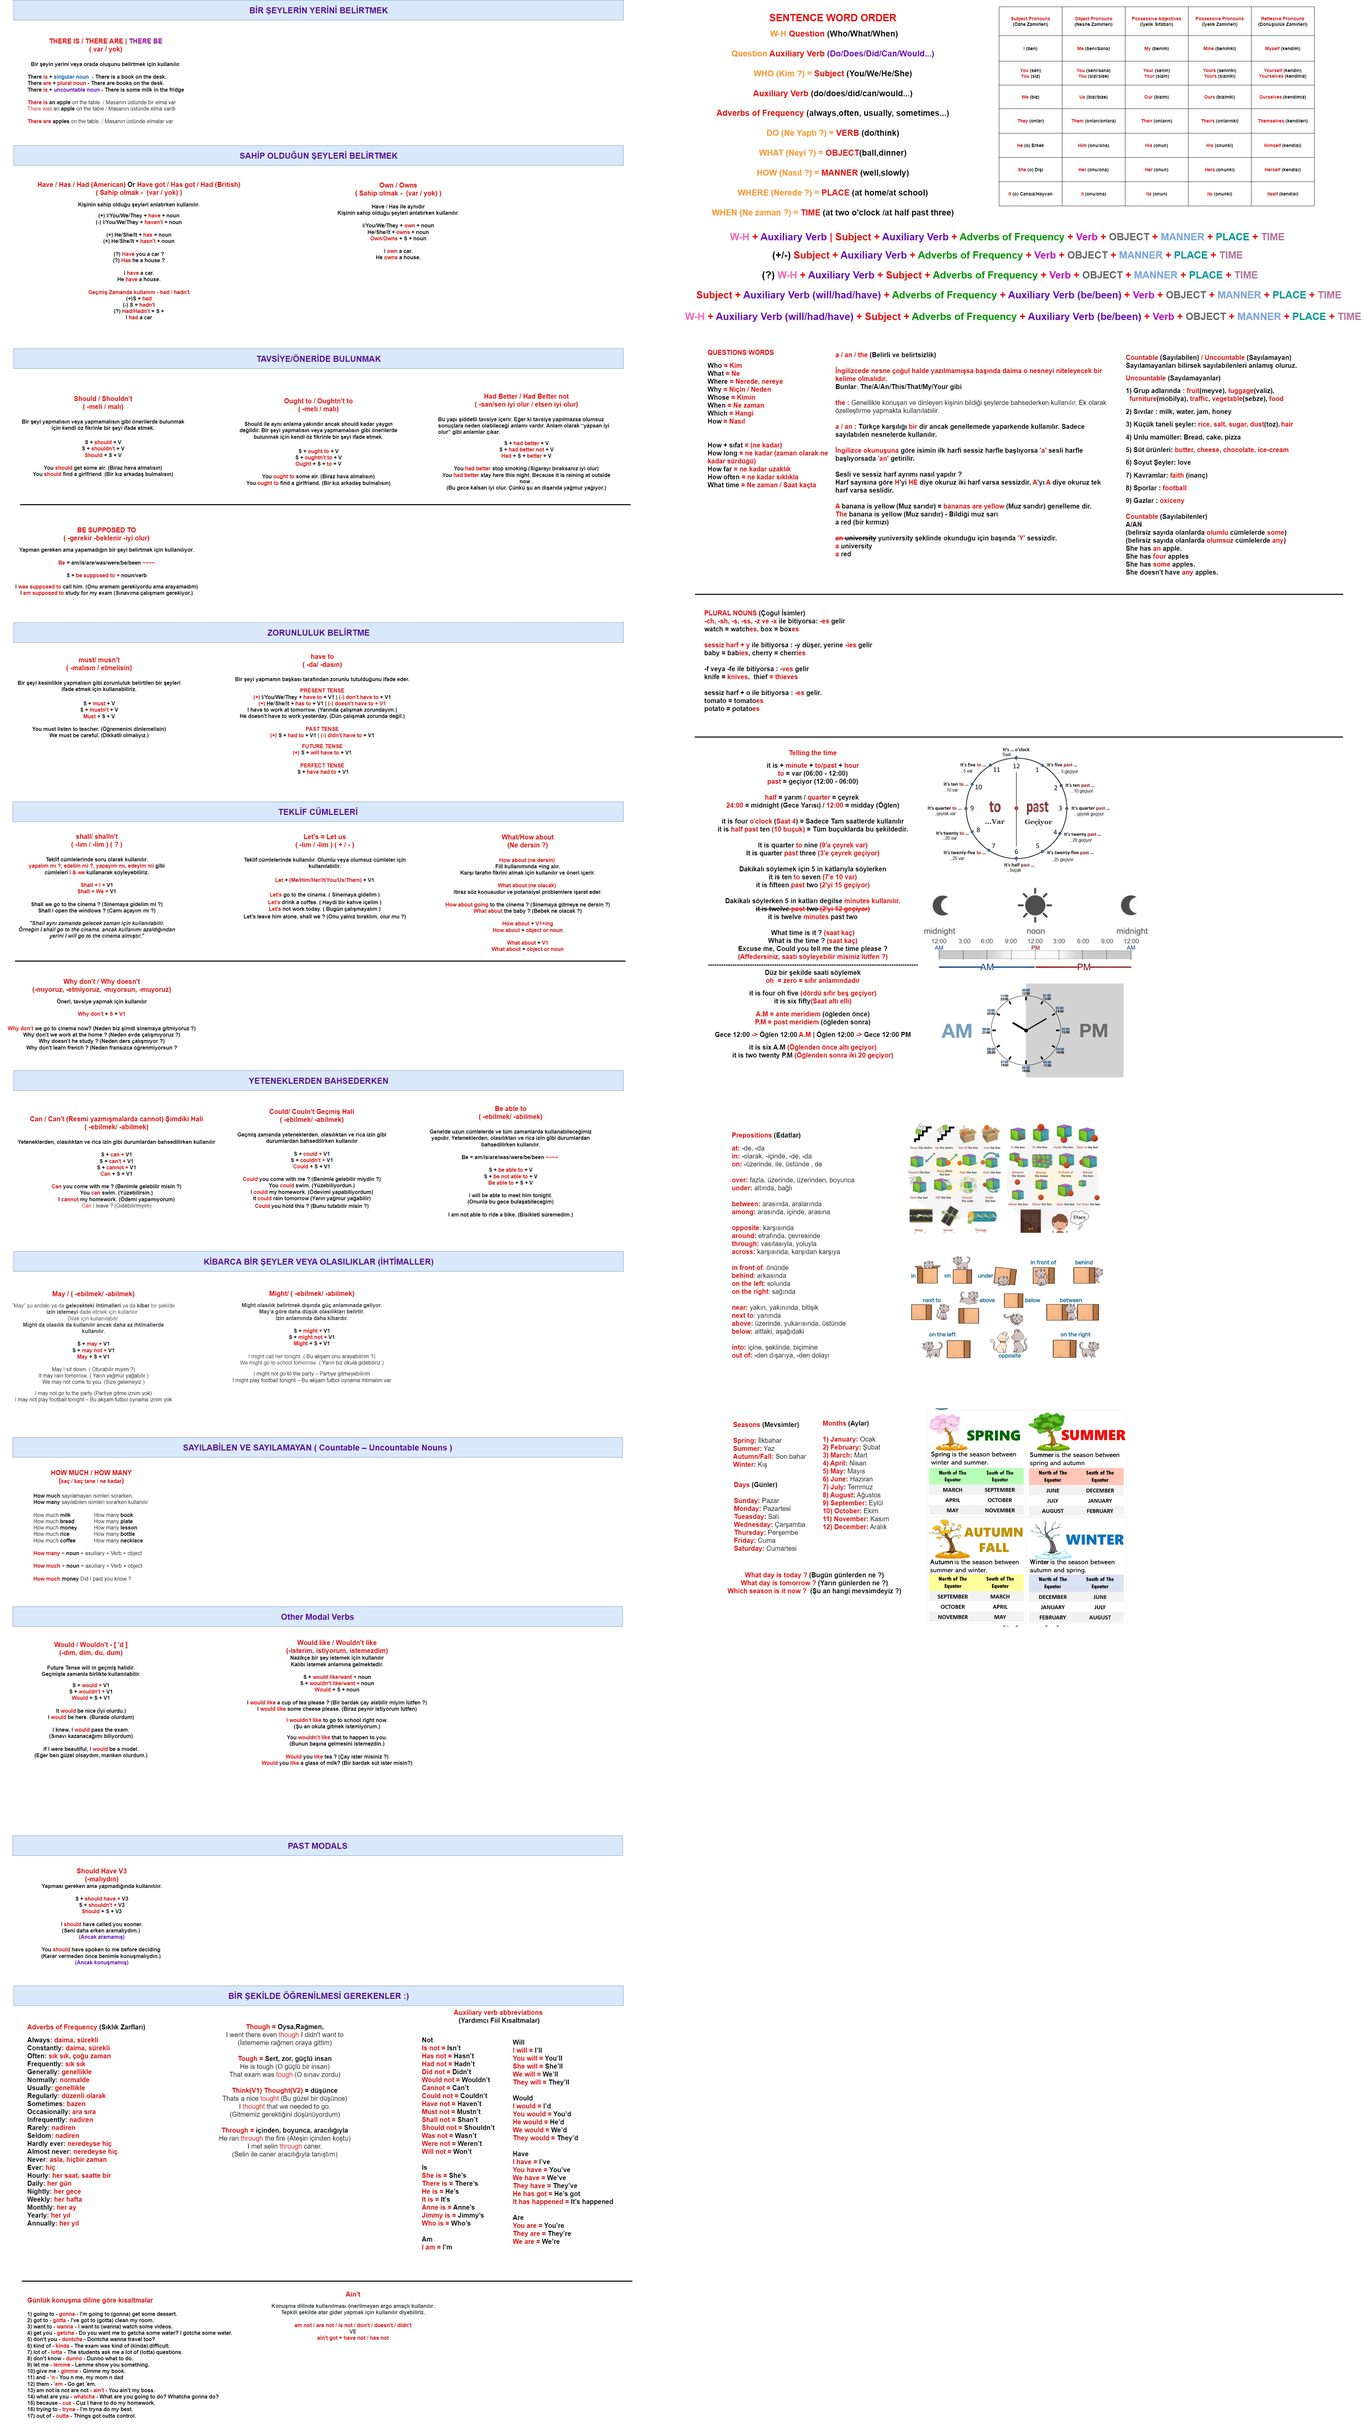
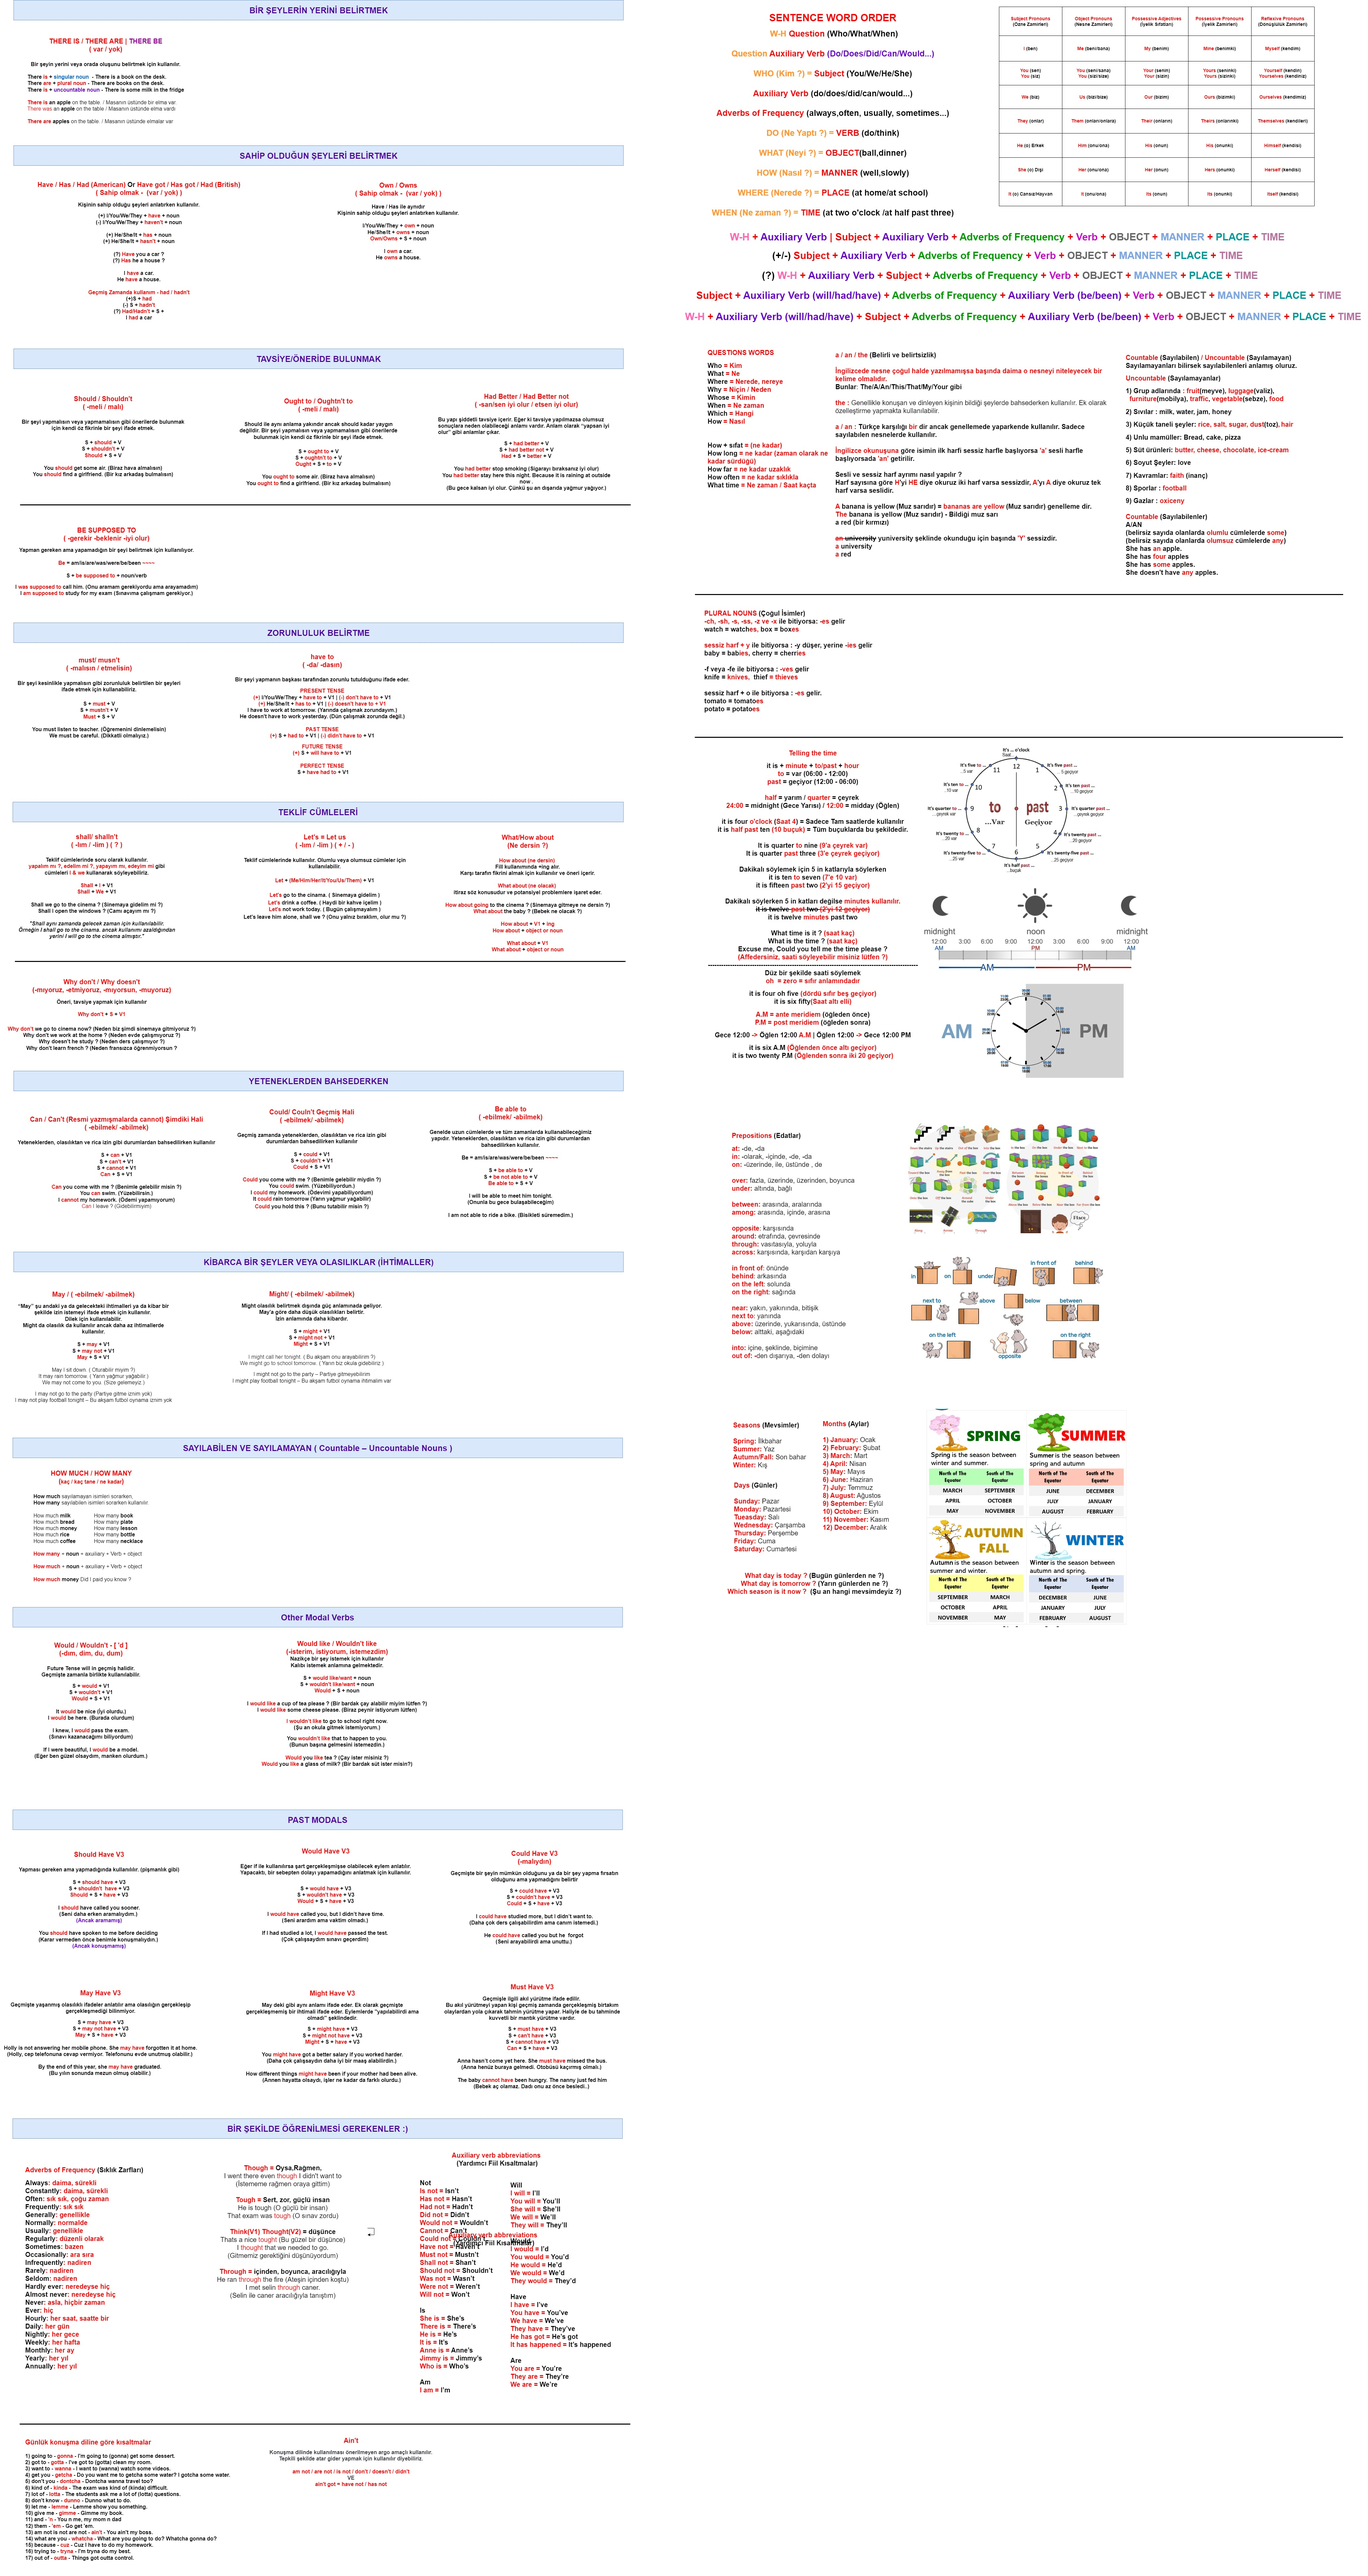
added would have, could have, may have, might have, must have

diff --git a/README.md b/README.md
@@ -8,9 +8,9 @@
 - Next, you can open the general.drawio on this website app.diagrams.net or draw.io
 
 ## All English Formulas
-- `12 English Tenses` %92
-- `All Modals` %70
-- `General` %50
+- `12 English Tenses` %95
+- `All Modals` %80
+- `General` %60
 
 ## Bonus
 - `Storybooks` %10
@@ -33,6 +33,8 @@
 ## Turkish -> English Sources For Turkish People
 
 ### `Web Sources`
+- https://evdeingilizcem.com/
+- https://www.remzihoca.com/
 - https://ingilizcebankasi.com
 - https://dersimizingilizce.com
 - https://blog.cambly.com/tr/
